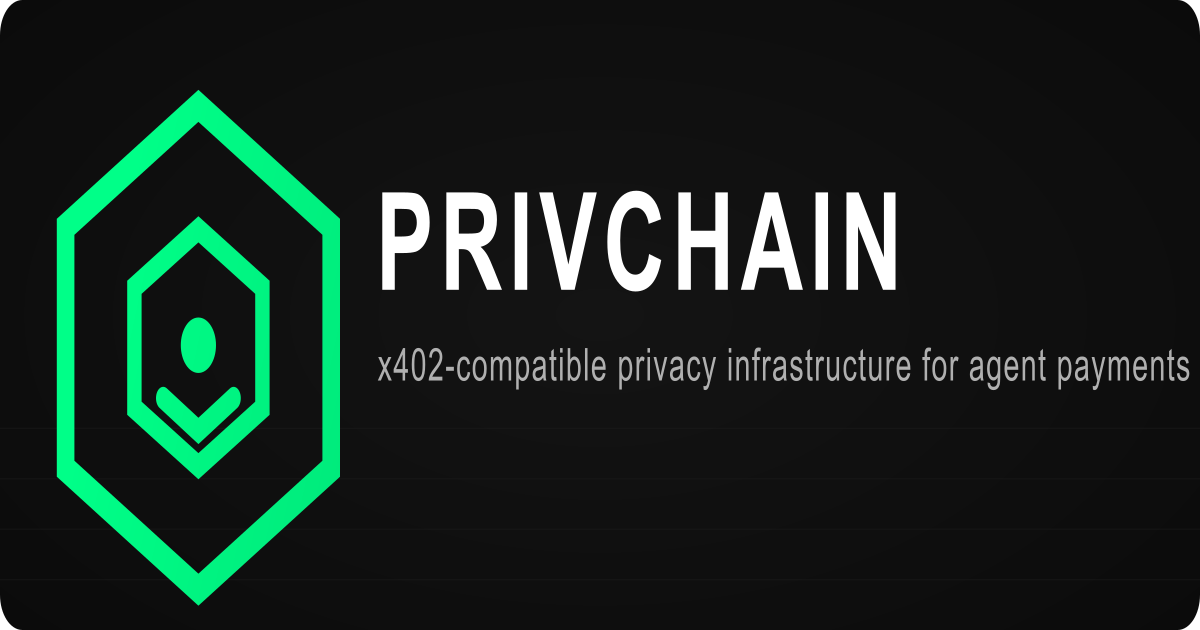
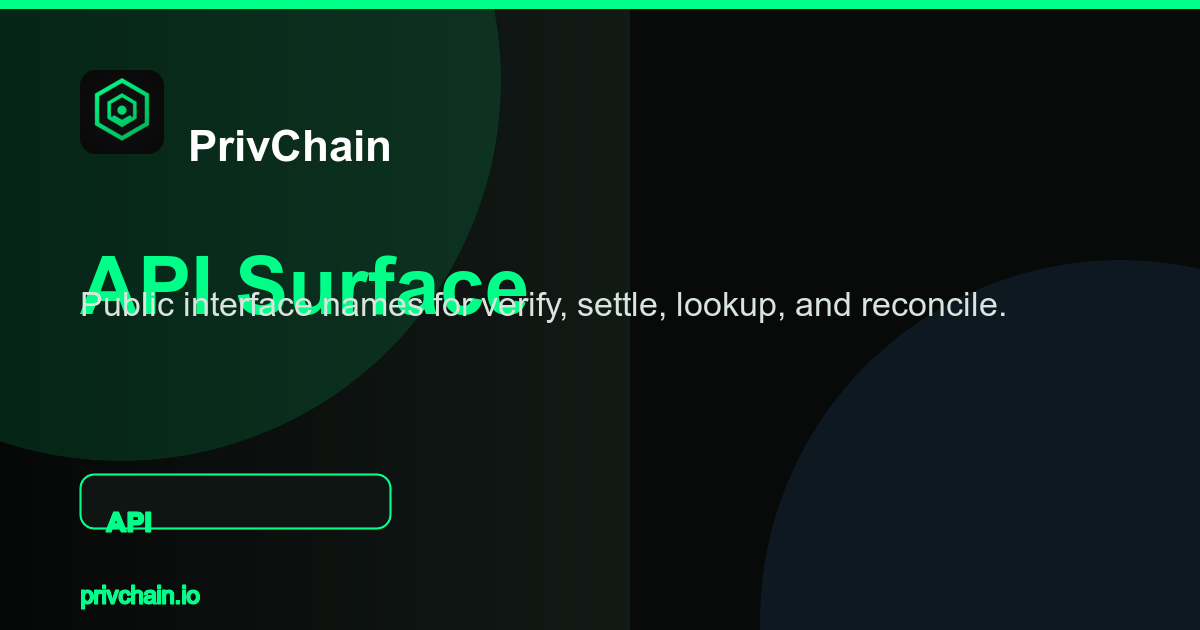
Generate unique social cards per page and add card build script

diff --git a/assets/brand/README.md b/assets/brand/README.md
@@ -51,3 +51,4 @@ Generated web icons are in `../icons/`:
 
 - PNG exports are generated from SVG sources.
 - Keep SVG files as canonical masters for future edits.
+- Social preview variants can be regenerated with `scripts/generate-social-cards.sh`.
